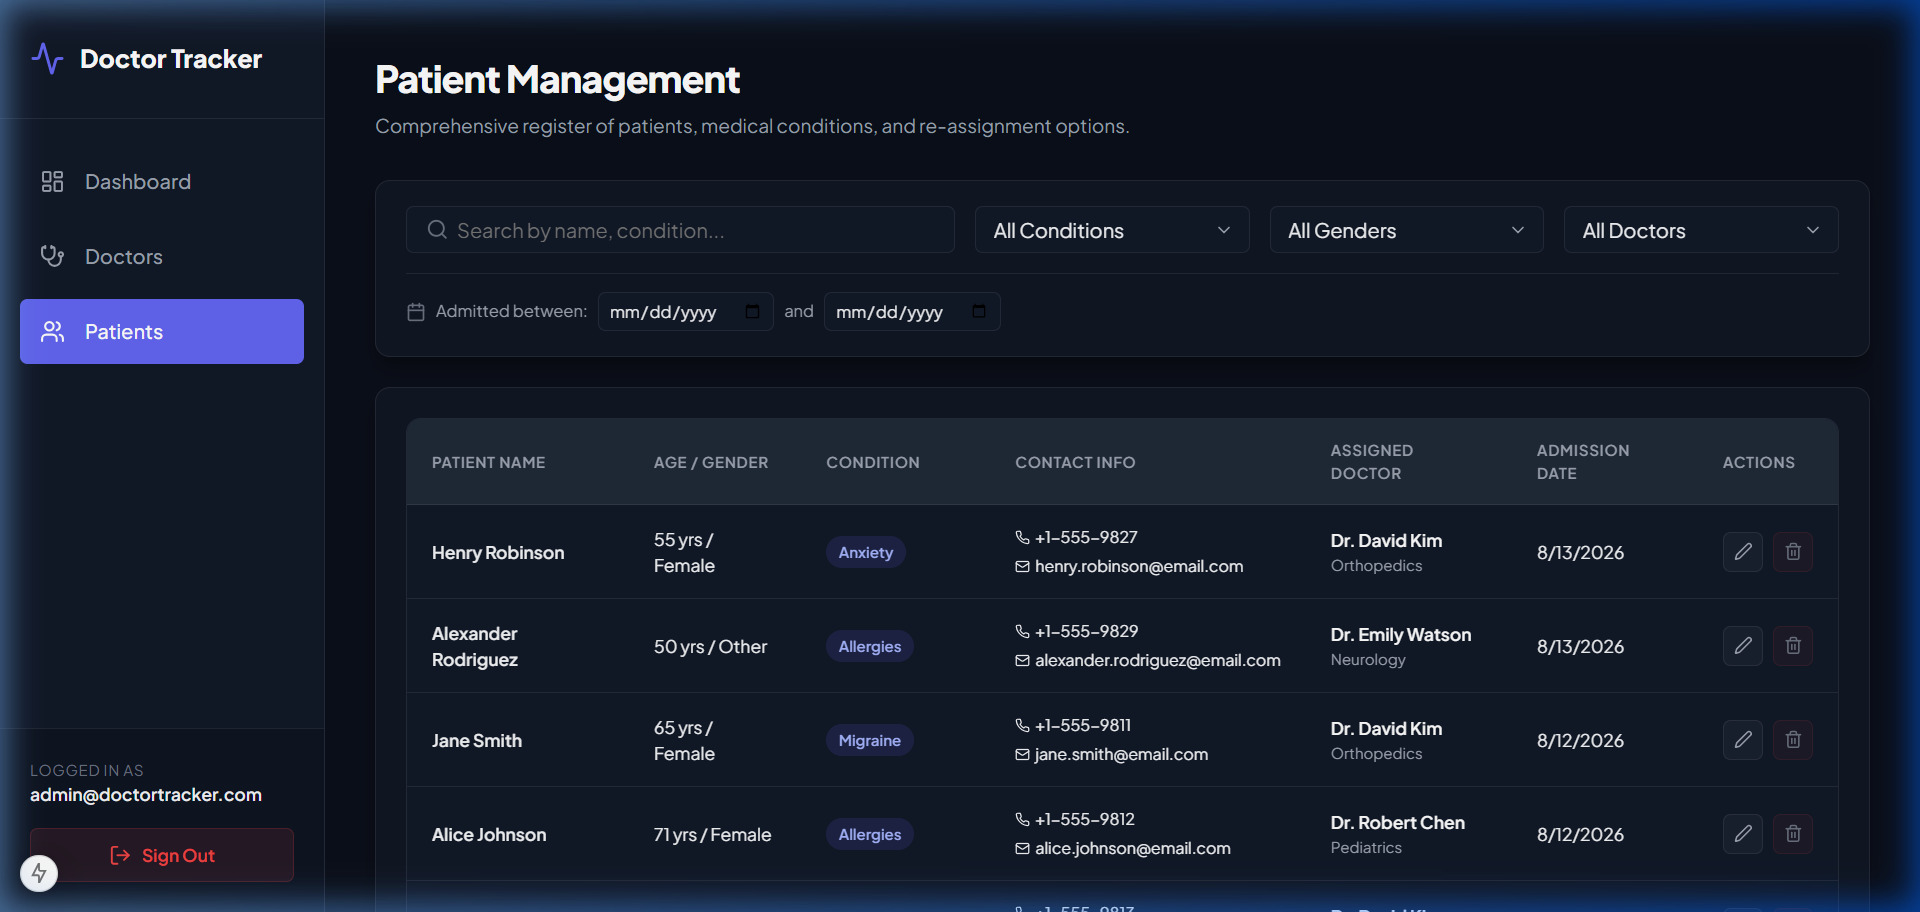
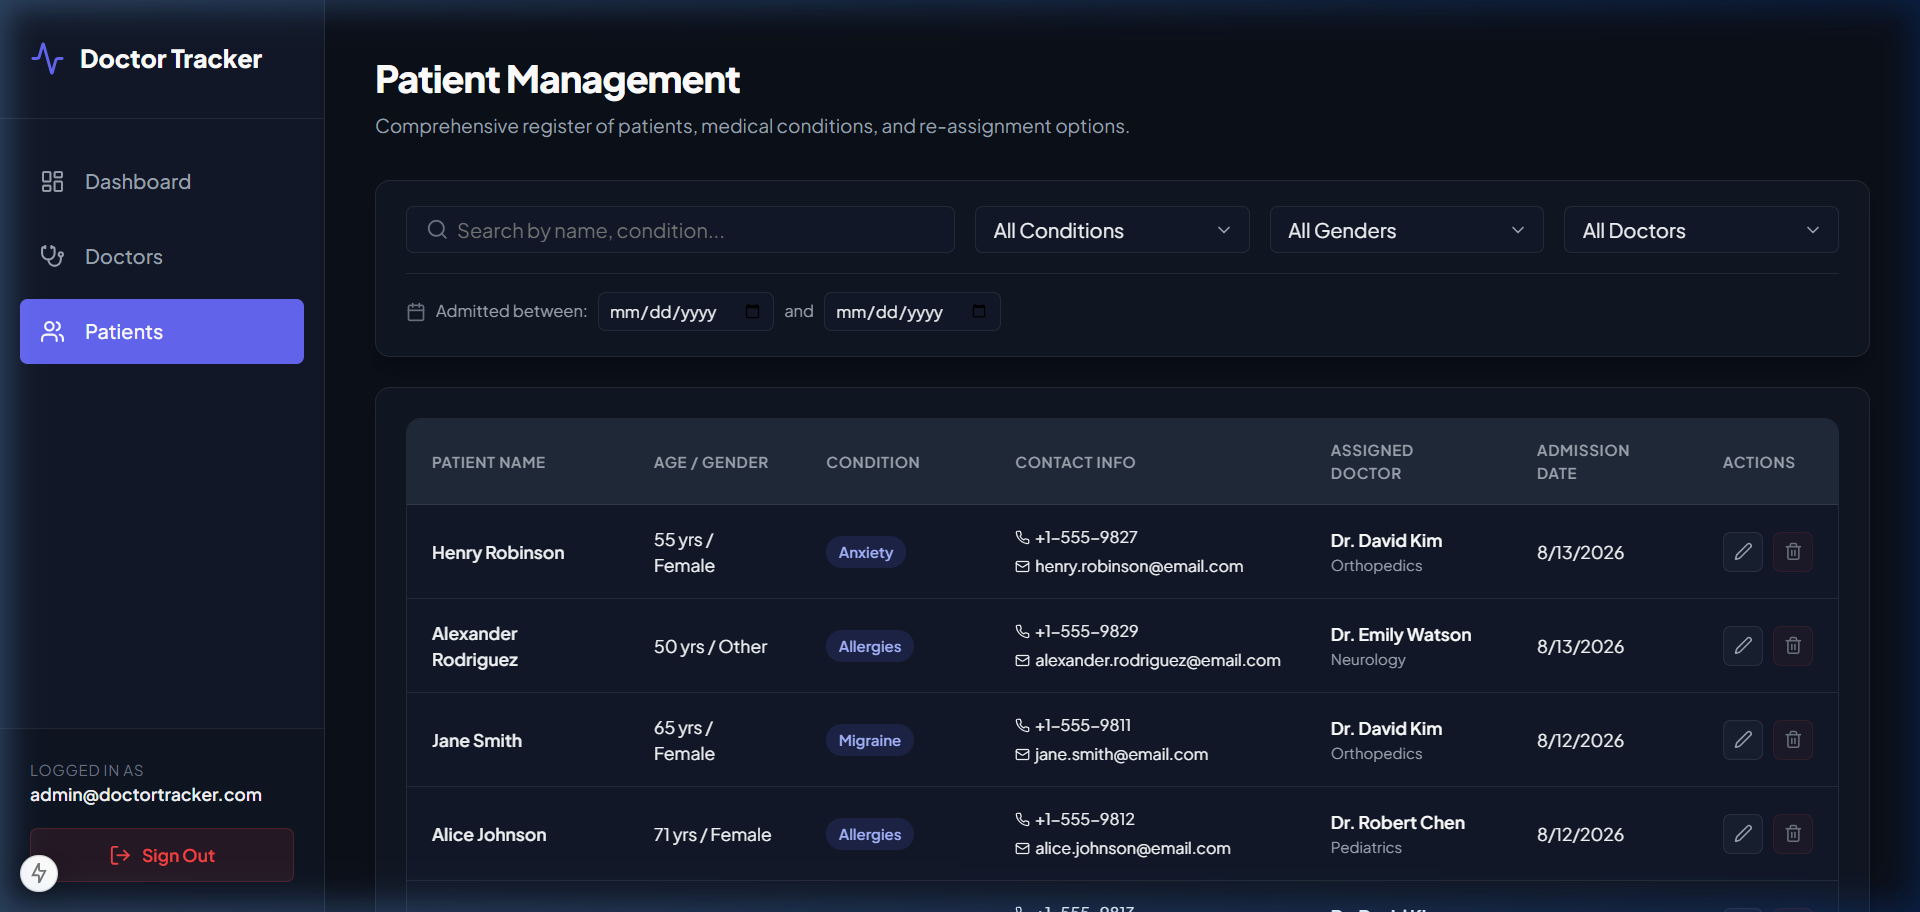
fix(frontend): convert tabular doctor and patient views to modern responsive card lists on mobile viewports

Changed region(s): [[0.0, 0.0, 1.0, 1.0]]

diff --git a/src/app/globals.css b/src/app/globals.css
@@ -1352,8 +1352,8 @@ select.filter-control {
   }
 }
 
-/* 2. Tablet Views (max-width: 768px) */
-@media (max-width: 768px) {
+/* 2. Tablet & Smaller Device Views (max-width: 1024px) */
+@media (max-width: 1024px) {
   .page-header {
     flex-direction: column;
     align-items: flex-start;
@@ -1390,14 +1390,119 @@ select.filter-control {
   }
 
   .clear-filters-btn {
-    align-self: flex-end;
+    align-self: flex-start;
     margin-top: 0.25rem;
   }
   
-  /* Make table scrolling touch-friendly */
+  /* Make table scrolling touch-friendly and prevent column crushing */
   .table-container {
+    overflow-x: auto !important;
     -webkit-overflow-scrolling: touch;
     border-radius: var(--radius-sm);
+  }
+
+  .data-table {
+    min-width: 900px !important; /* Forces scrollbar to maintain tabular readability and button access */
+  }
+}
+
+/* Tablet & Mobile Table Card Transformation (max-width: 768px) */
+@media (max-width: 768px) {
+  .table-container {
+    border: none !important;
+    background: transparent !important;
+    margin-top: 1rem !important;
+  }
+
+  .data-table, 
+  .data-table thead, 
+  .data-table tbody, 
+  .data-table th, 
+  .data-table td, 
+  .data-table tr {
+    display: block !important;
+    width: 100% !important;
+    min-width: 0 !important; /* Overrides desktop/tablet min-width */
+  }
+
+  .data-table thead {
+    display: none !important; /* Hide column headers */
+  }
+
+  .data-table tr {
+    margin-bottom: 1.25rem !important;
+    background-color: var(--bg-secondary) !important;
+    border: 1px solid var(--border-color) !important;
+    border-radius: var(--radius-md) !important;
+    padding: 1.25rem 1rem !important;
+    box-shadow: var(--shadow-md) !important;
+    transition: transform var(--transition-fast) !important;
+  }
+
+  .data-table tr:hover {
+    transform: translateY(-2px);
+    border-color: var(--accent-primary) !important;
+  }
+
+  .data-table td {
+    display: flex !important;
+    justify-content: space-between !important;
+    align-items: center !important;
+    text-align: right !important;
+    padding: 0.75rem 0 !important;
+    border-bottom: 1px dashed rgba(255, 255, 255, 0.05) !important;
+    font-size: 0.85rem !important;
+    color: var(--text-primary) !important;
+  }
+
+  .data-table td:last-child {
+    border-bottom: none !important;
+    margin-top: 0.5rem !important;
+    padding-top: 0.875rem !important;
+    border-top: 1px solid var(--border-color) !important;
+    display: flex !important;
+    justify-content: space-between !important;
+    align-items: center !important;
+  }
+
+  /* Show column label on the left using data-label attribute */
+  .data-table td::before {
+    content: attr(data-label) !important;
+    font-weight: 600 !important;
+    color: var(--text-secondary) !important;
+    text-transform: uppercase !important;
+    font-size: 0.725rem !important;
+    letter-spacing: 0.05em !important;
+    text-align: left !important;
+    margin-right: 1.5rem !important;
+  }
+
+  /* Specific cell style alignment updates */
+  .data-table td .doctor-info-cell,
+  .data-table td .doc-assigned-cell,
+  .data-table td .contact-cell {
+    display: flex !important;
+    flex-direction: column !important;
+    align-items: flex-end !important;
+    text-align: right !important;
+    gap: 0.25rem !important;
+  }
+
+  .data-table td .doctor-info-cell {
+    flex-direction: row-reverse !important;
+    align-items: center !important;
+  }
+
+  .data-table td .actions-cell {
+    width: auto !important;
+    display: flex !important;
+    justify-content: flex-end !important;
+    gap: 0.5rem !important;
+  }
+
+  /* Doctor list specific layout padding adjustments */
+  .active-row {
+    border-left: 3px solid var(--accent-primary) !important;
   }
 }
 
@@ -1412,6 +1517,9 @@ select.filter-control {
   }
   
   .detail-panel {
+    left: 0 !important;
+    width: 100% !important;
+    border-left: none !important;
     padding: 1.5rem 1rem;
   }
 

diff --git a/src/app/patients/page.tsx b/src/app/patients/page.tsx
@@ -354,14 +354,14 @@ export default function PatientsPage() {
                   {patients.length > 0 ? (
                     patients.map((pat) => (
                       <tr key={pat._id}>
-                        <td style={{ fontWeight: 600 }}>{pat.name}</td>
-                        <td>
+                        <td data-label="Patient Name" style={{ fontWeight: 600 }}>{pat.name}</td>
+                        <td data-label="Age / Gender">
                           {pat.age} yrs / <span className="text-muted">{pat.gender}</span>
                         </td>
-                        <td>
+                        <td data-label="Condition">
                           <span className="badge badge-info">{pat.condition}</span>
                         </td>
-                        <td>
+                        <td data-label="Contact Info">
                           <div className="contact-cell">
                             <span className="contact-phone"><Phone size={12} /> {pat.phone}</span>
                             {pat.email && (
@@ -369,7 +369,7 @@ export default function PatientsPage() {
                             )}
                           </div>
                         </td>
-                        <td>
+                        <td data-label="Assigned Doctor">
                           <div className="doc-assigned-cell">
                             <span className="doc-name">{pat.doctor?.name || 'Unassigned'}</span>
                             {pat.doctor?.specialization && (
@@ -377,10 +377,10 @@ export default function PatientsPage() {
                             )}
                           </div>
                         </td>
-                        <td className="text-muted">
+                        <td data-label="Admission Date" className="text-muted">
                           {new Date(pat.dateAdded).toLocaleDateString()}
                         </td>
-                        <td>
+                        <td data-label="Actions">
                           <div className="actions-cell">
                             <button
                               className="action-btn edit-btn"

diff --git a/src/app/doctors/page.tsx b/src/app/doctors/page.tsx
@@ -399,7 +399,7 @@ export default function DoctorsPage() {
                             className={`doctor-row ${selectedDoctor?._id === doc._id ? 'active-row' : ''}`}
                             style={{ cursor: 'pointer' }}
                           >
-                            <td>
+                            <td data-label="Doctor Info">
                               <div className="doctor-info-cell">
                                 <div className="avatar">
                                   <Stethoscope size={18} />
@@ -410,8 +410,8 @@ export default function DoctorsPage() {
                                 </div>
                               </div>
                             </td>
-                            <td>{doc.hospital}</td>
-                            <td className="text-muted" style={{ fontSize: '0.8rem' }}>
+                            <td data-label="Hospital">{doc.hospital}</td>
+                            <td data-label="Registered" className="text-muted" style={{ fontSize: '0.8rem' }}>
                               {new Date(doc.createdAt).toLocaleDateString()}
                             </td>
                           </tr>
